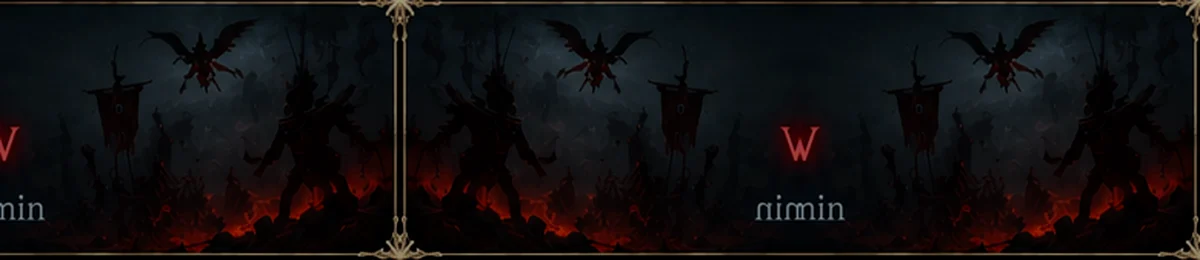
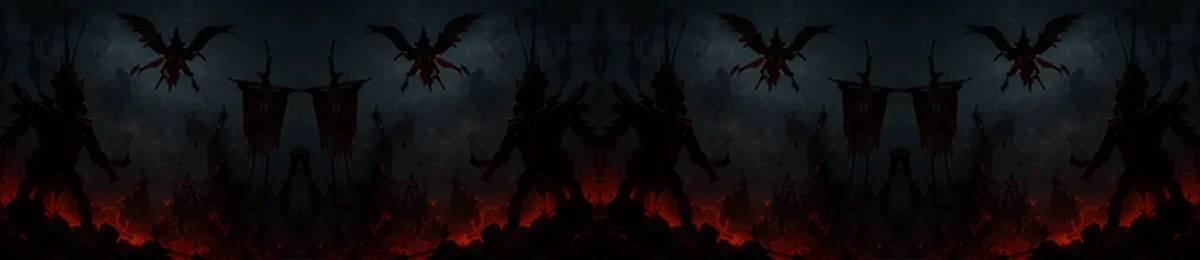
Add files via upload

diff --git a/index.html b/index.html
@@ -6,7 +6,7 @@ header{display:grid;grid-template-columns:360px 1fr 62px;gap:22px;align-items:ce
 .frame{position:relative;border:1px solid var(--line);background:#101113}.frame:before,.frame:after{content:'◆';position:absolute;color:#aa8a55;font-size:13px;top:-8px}.frame:before{left:-7px}.frame:after{right:-7px}.boss{height:245px;display:flex;flex-direction:column;justify-content:center;align-items:center;text-align:center;background-repeat:no-repeat!important;background-position:center center!important;background-size:cover!important;overflow:hidden;isolation:isolate;background-color:#0b0b0c}.boss:before{content:'';position:absolute;inset:0;z-index:-2;background:linear-gradient(90deg,rgba(5,5,6,.10) 0%,rgba(5,5,6,.18) 35%,rgba(5,5,6,.42) 62%,rgba(5,5,6,.88) 88%,#050506 100%)}.boss:after{content:'';position:absolute;inset:0;z-index:-1;background:linear-gradient(180deg,rgba(0,0,0,.22),rgba(45,5,2,.18) 55%,rgba(0,0,0,.38))}.eyebrow,.event h3,.realm .name,.season-title,.alerts-title{font-family:Exocet;letter-spacing:5px}.eyebrow{font-size:22px}.count{font-family:Exocet;font-size:68px;line-height:1;margin:14px 0 8px;text-shadow:0 0 10px #7a210f}.meta{font-family:Formal,Arial,sans-serif;font-size:21px;text-shadow:0 2px 3px #000}.grid2{display:grid;grid-template-columns:1fr 1fr;gap:18px;margin-top:18px}.event{height:158px;padding:26px 36px;display:flex;flex-direction:column;align-items:center;justify-content:center;background-color:#0d0e10;background-position:center;background-size:cover;background-repeat:no-repeat;position:relative;overflow:hidden}.event:before{content:'';position:absolute;inset:0;background:rgba(5,5,6,.42);z-index:0}.event>*{position:relative;z-index:1}.grid2 .event:first-child{background-image:url('./assets/helltide.webp')}.grid2 .event:last-child{background-image:url('./assets/legion.webp')}.event h3{font-size:22px;margin:0 0 16px}.event strong{font-family:Exocet;font-size:28px;color:#ff5a51}.event small{font-size:19px;color:#aeb3bd;margin-top:8px}.realm{height:82px;margin-top:18px;display:grid;grid-template-columns:1fr auto 1fr;align-items:center;padding:0 38px;background:linear-gradient(rgba(8,9,10,.58),rgba(8,9,10,.58)),url('./assets/realmwalker.webp') center/cover no-repeat}.realm .name{font-size:22px}.realm strong{font-family:Exocet;color:#ff5a51;font-size:25px}.realm small{text-align:right;font-size:18px;color:#adb0b6}
 .bottom{display:grid;grid-template-columns:1.18fr .88fr;gap:18px;margin-top:18px}.season-panel{height:240px;padding:20px 24px;overflow:hidden;isolation:isolate}.season-panel:before{content:'';position:absolute;inset:0;z-index:-2;background:url('./assets/season15.webp') center center/cover no-repeat;opacity:1}.season-panel:after{content:'';position:absolute;inset:0;z-index:-1;background:linear-gradient(90deg,rgba(4,4,5,.93) 0%,rgba(5,5,6,.80) 30%,rgba(5,5,6,.26) 55%,rgba(0,0,0,.08) 100%),linear-gradient(180deg,rgba(0,0,0,.12),rgba(0,0,0,.32))}.season-title{font-size:20px;text-shadow:0 2px 4px #000}.season-clock{display:grid;grid-template-columns:repeat(4,1fr);width:49%;margin-top:32px}.unit{text-align:center;border-right:1px solid #6e5839}.unit:last-child{border:0}.num{font-family:Exocet;font-size:52px}.lab{font-family:Exocet;font-size:12px;letter-spacing:2px;color:#d8c39d;margin-top:10px}.season-name{display:none}.alerts-summary{height:240px;padding:20px 26px;background:#0b0c0d}.alerts-head{display:flex;justify-content:space-between;align-items:center;border-bottom:1px solid #2e2923;padding-bottom:12px}.alerts-title{font-size:18px}.alert-row{display:grid;grid-template-columns:18px 1fr auto;gap:12px;align-items:start;padding:10px 0;border-bottom:1px solid #242424}.dot{width:11px;height:11px;border-radius:50%;background:#f33;margin-top:6px;box-shadow:0 0 8px #f22}.alert-row b{font-size:17px;font-weight:400}.alert-row small{display:block;color:#9299a5;font-size:14px}.alert-row time{color:#9299a5}.footer{border-top:1px solid #4d3b27;margin-top:22px;padding:18px 4px 0;display:flex;justify-content:space-between;color:#8e877e;font-style:italic}.page{display:none}.page.active{display:block}.other{padding:28px}.post{padding:20px;margin-bottom:12px}.post h2{font-family:Exocet;color:#e8d2a8}.post a{color:#e34b42}.modal{position:fixed;inset:0;background:#000b;display:none;place-items:center;z-index:10}.modal.open{display:grid}.alerts-box{width:350px;background:#171719;border:1px solid #6c5a3d;padding:15px;position:relative}.close{position:absolute;right:12px;top:8px;border:0;background:none;color:#aaa;font-size:22px}.alerts-box h2{font-family:Exocet;letter-spacing:2px;font-size:18px}.master{width:100%;padding:12px;border:1px solid #d22;background:#2b0806;color:#ead5b8;font-family:Exocet;font-size:15px}.opts{display:grid;grid-template-columns:1fr 1fr;gap:7px;margin:12px 0}.opt{display:flex;justify-content:space-between;border:1px solid #2e2e2e;padding:8px;color:#aaa}.wins{display:flex;gap:6px;flex-wrap:wrap}.wins button{border:1px solid #c9843c;background:#20130c;color:#fff;padding:6px;font-size:11px}.wins button.active{background:#7d180f}@media(max-width:900px){header{grid-template-columns:1fr 55px}.brandwrap{grid-column:1/-1}.nav{grid-template-columns:1fr 1fr}.bottom,.grid2{grid-template-columns:1fr}.season-panel,.alerts-summary{height:auto;min-height:230px}.season-clock{width:100%}.season-name{display:none}.boss{height:210px}.count{font-size:48px}.realm{grid-template-columns:1fr;gap:6px;height:auto;padding:20px}.realm small{text-align:left}}
 </style></head><body><main class="app"><header><div class="brandwrap"><div class="brand">DIABLO <b>IV</b></div><div class="subbrand">SANCTUARY VN TRACKER</div></div><nav class="nav"><button class="active" data-page="sanctum">♟ SANCTUM</button><button data-page="updates">▣ THÔNG TIN UPDATE</button><button data-page="events">⚔ EVENTS</button><button data-page="season">♜ SEASON</button></nav><button class="bell" id="bell">🔔</button></header>
-<section class="page active" id="sanctum"><div class="frame boss" id="bossPanel"><div class="eyebrow">WORLD BOSS</div><div class="count" id="bossCd">--:--:--</div><div class="meta"><span id="bossName">--</span> · <span id="bossMeta">Đang tải…</span></div></div><div class="grid2"><div class="frame event"><h3>♙ HELLTIDE</h3><strong id="hellState">HELLTIDE RAGES</strong><small id="hellMeta">--</small></div><div class="frame event"><h3>◉ LEGION</h3><strong id="legionState">Gathering NOW</strong><small id="legionMeta">--</small></div></div><div class="frame realm"><div class="name">◉ REALMWALKER</div><strong id="realmState">WALKER RISEN</strong><small id="realmMeta">Chu kỳ 2 giờ</small></div><div class="bottom"><div class="frame season-panel"><div class="season-title">⌛ SEASON 15 COUNTDOWN</div><div class="season-clock"><div class="unit"><div class="num" id="sd">--</div><div class="lab">DAYS</div></div><div class="unit"><div class="num" id="sh">--</div><div class="lab">HOURS</div></div><div class="unit"><div class="num" id="sm">--</div><div class="lab">MINUTES</div></div><div class="unit"><div class="num" id="ss">--</div><div class="lab">SECONDS</div></div></div><div class="season-name">SEASON 15<span>SEASON OF HELL'S LEGACY</span></div></div><div class="frame alerts-summary"><div class="alerts-head"><div class="alerts-title">🔔 SANCTUARY ALERTS</div><span>Xem tất cả →</span></div><div id="alertRows"></div></div></div></section>
+<section class="page active" id="sanctum"><div class="frame boss" id="bossPanel"><div class="eyebrow">WORLD BOSS</div><div class="count" id="bossCd">--:--:--</div><div class="meta"><span id="bossName">--</span> · <span id="bossMeta">Đang tải…</span></div></div><div class="grid2"><div class="frame event"><h3>♙ HELLTIDE</h3><strong id="hellState">HELLTIDE RAGES</strong><small id="hellMeta">--</small></div><div class="frame event"><h3>◉ LEGION</h3><strong id="legionState">Gathering NOW</strong><small id="legionMeta">--</small></div></div><div class="bottom"><div class="frame season-panel"><div class="season-title">⌛ SEASON 15 COUNTDOWN</div><div class="season-clock"><div class="unit"><div class="num" id="sd">--</div><div class="lab">DAYS</div></div><div class="unit"><div class="num" id="sh">--</div><div class="lab">HOURS</div></div><div class="unit"><div class="num" id="sm">--</div><div class="lab">MINUTES</div></div><div class="unit"><div class="num" id="ss">--</div><div class="lab">SECONDS</div></div></div><div class="season-name">SEASON 15<span>SEASON OF HELL'S LEGACY</span></div></div><div class="frame alerts-summary"><div class="alerts-head"><div class="alerts-title">🔔 SANCTUARY ALERTS</div><span>Xem tất cả →</span></div><div id="alertRows"></div></div></div></section>
 <section class="page" id="updates"><div class="frame other"><h1>THÔNG TIN UPDATE</h1><div id="posts"></div></div></section><section class="page" id="events"><div class="frame other"><h1>EVENTS</h1><p>Lịch sự kiện sử dụng giờ Việt Nam UTC+7.</p></div></section><section class="page" id="season"><div class="frame other"><h1>SEASON 15</h1><p>Season of Hell's Legacy</p></div></section><footer class="footer"><span>Diablo IV · Sanctuary VN Tracker</span><span>By the players, for the Sanctuary.</span><span>Stay a while, and listen…</span></footer></main>
 <div class="modal" id="modal"><div class="alerts-box"><button class="close" id="close">×</button><h2>THÔNG BÁO SANCTUARY</h2><p id="notifStatus">THÔNG BÁO: ĐANG TẮT</p><button class="master" id="master">🔔 BẬT THÔNG BÁO</button><h4>THÔNG BÁO CHO TÔI VỀ</h4><div class="opts" id="opts"></div><h4>KHUNG GIỜ NHẬN THÔNG BÁO</h4><div class="wins"><button data-w="afternoon">14:00–19:00</button><button data-w="evening">16:00–21:00</button><button data-w="late">18:00–23:00</button></div></div></div>
 <script>
@@ -15,10 +15,10 @@ const bossImgs={ashava:'ashava.webp',avarice:'avarice.webp','wandering death':'w
 function fmt(t){return new Intl.DateTimeFormat('vi-VN',{timeZone:TZ,hour:'2-digit',minute:'2-digit',weekday:'short',day:'2-digit',month:'2-digit'}).format(new Date(t)).replace('Th ','Thứ ')}function cd(ms){if(ms<0)ms=0;let s=Math.floor(ms/1000),h=Math.floor(s/3600);s%=3600;let m=Math.floor(s/60);s%=60;return [h,m,s].map(x=>String(x).padStart(2,'0')).join(':')}
 function nextBoss(){let n=Date.now(),a=DATA.world_boss||[];return a.find(x=>new Date(x.time)>n)||a[0]}
 function render(){let b=nextBoss();if(b){let ms=new Date(b.time)-Date.now();$('#bossCd').textContent=cd(ms);$('#bossName').textContent=b.name;$('#bossMeta').textContent=`${b.location||'Sanctuary'} · ${fmt(b.time)}`;let k=(b.name||'').toLowerCase();let f=Object.entries(bossImgs).find(([x])=>k.includes(x))?.[1];if(f)$('#bossPanel').style.backgroundImage=`url('./assets/bosses/${f}')`}
-let now=Date.now(),minute=Math.floor(now/60000);let hell=3600-(Math.floor(now/1000)%3600);$('#hellMeta').textContent=`Kết thúc sau ${cd(hell*1000)}`;let leg=25-(minute%25);$('#legionState').textContent=leg<=1?'Gathering NOW':`Gathering in ${String(leg).padStart(2,'0')}:00`;$('#legionMeta').textContent='Chu kỳ hiển thị 25 phút';let rw=120-(minute%120);$('#realmState').textContent=rw<=1?'WALKER RISEN':`Rises in ${Math.floor(rw/60)}:${String(rw%60).padStart(2,'0')}:00`;
+let now=Date.now(),minute=Math.floor(now/60000);let hell=3600-(Math.floor(now/1000)%3600);$('#hellMeta').textContent=`Kết thúc sau ${cd(hell*1000)}`;let leg=25-(minute%25);$('#legionState').textContent=leg<=1?'Gathering NOW':`Gathering in ${String(leg).padStart(2,'0')}:00`;$('#legionMeta').textContent='Chu kỳ hiển thị 25 phút';
 let end=new Date('2026-12-02T00:00:00+07:00')-Date.now(),s=Math.max(0,Math.floor(end/1000));$('#sd').textContent=Math.floor(s/86400);s%=86400;$('#sh').textContent=String(Math.floor(s/3600)).padStart(2,'0');s%=3600;$('#sm').textContent=String(Math.floor(s/60)).padStart(2,'0');$('#ss').textContent=String(s%60).padStart(2,'0')}
 function alerts(){let b=nextBoss(),rows=[];if(b)rows.push([`World Boss · ${b.name}`,`Xuất hiện tại ${b.location||'Sanctuary'} lúc ${fmt(b.time)}`]);rows.push(['Helltide đang diễn ra','Theo dõi bộ đếm Helltide'],['Legion','Chu kỳ sự kiện mỗi 25 phút']);$('#alertRows').innerHTML=rows.map((r,i)=>`<div class="alert-row"><i class="dot"></i><div><b>${r[0]}</b><small>${r[1]}</small></div><time>${new Date().toLocaleTimeString('vi-VN',{hour:'2-digit',minute:'2-digit'})}</time></div>`).join('')}
 async function load(){try{DATA=await fetch('./data/events.json?'+Date.now()).then(r=>r.json())}catch{}try{NEWS=await fetch('./data/news.json?'+Date.now()).then(r=>r.json())}catch{}$('#posts').innerHTML=(NEWS||[]).map(p=>`<article class="post"><small>${p.source||''}</small><h2>${p.title}</h2><p>${p.summary||''}</p><a href="${p.url}" target="_blank">ĐỌC BÀI GỐC →</a></article>`).join('');render();alerts()}
 $$('.nav button').forEach(b=>b.onclick=()=>{$$('.nav button').forEach(x=>x.classList.remove('active'));b.classList.add('active');$$('.page').forEach(x=>x.classList.remove('active'));$('#'+b.dataset.page).classList.add('active')});
-let prefs=JSON.parse(localStorage.getItem('d4alerts')||'{"on":false,"events":["boss","helltide","legion","realmwalker"],"wins":["evening"]}');const labels={boss:'WORLD BOSS',realmwalker:'REALMWALKER',helltide:'HELLTIDE',legion:'LEGION',season:'MÙA GIẢI',news:'TIN BLIZZARD'};function drawPrefs(){$('#opts').innerHTML=Object.entries(labels).map(([k,v])=>`<label class="opt">${v}<input type="checkbox" data-o="${k}" ${prefs.events.includes(k)?'checked':''}></label>`).join('');$$('[data-o]').forEach(x=>x.onchange=()=>{prefs.events=x.checked?[...new Set([...prefs.events,x.dataset.o])]:prefs.events.filter(y=>y!==x.dataset.o);save()});$$('[data-w]').forEach(x=>x.classList.toggle('active',prefs.wins.includes(x.dataset.w)));$('#notifStatus').textContent=`THÔNG BÁO: ${prefs.on?'ĐANG BẬT':'ĐANG TẮT'}`;$('#master').textContent=prefs.on?'🔕 TẮT THÔNG BÁO':'🔔 BẬT THÔNG BÁO';$('#bell').classList.toggle('on',prefs.on)}function save(){localStorage.setItem('d4alerts',JSON.stringify(prefs));drawPrefs()}$('#bell').onclick=()=>$('#modal').classList.add('open');$('#close').onclick=()=>$('#modal').classList.remove('open');$('#master').onclick=async()=>{if(!prefs.on&&'Notification'in window)await Notification.requestPermission();prefs.on=!prefs.on;save()};$$('[data-w]').forEach(x=>x.onclick=()=>{prefs.wins=prefs.wins.includes(x.dataset.w)?prefs.wins.filter(y=>y!==x.dataset.w):[...prefs.wins,x.dataset.w];save()});drawPrefs();load();setInterval(render,1000);setInterval(alerts,60000);
+let prefs=JSON.parse(localStorage.getItem('d4alerts')||'{"on":false,"events":["boss","helltide","legion"],"wins":["evening"]}');const labels={boss:'WORLD BOSS',helltide:'HELLTIDE',legion:'LEGION',season:'MÙA GIẢI',news:'TIN BLIZZARD'};function drawPrefs(){$('#opts').innerHTML=Object.entries(labels).map(([k,v])=>`<label class="opt">${v}<input type="checkbox" data-o="${k}" ${prefs.events.includes(k)?'checked':''}></label>`).join('');$$('[data-o]').forEach(x=>x.onchange=()=>{prefs.events=x.checked?[...new Set([...prefs.events,x.dataset.o])]:prefs.events.filter(y=>y!==x.dataset.o);save()});$$('[data-w]').forEach(x=>x.classList.toggle('active',prefs.wins.includes(x.dataset.w)));$('#notifStatus').textContent=`THÔNG BÁO: ${prefs.on?'ĐANG BẬT':'ĐANG TẮT'}`;$('#master').textContent=prefs.on?'🔕 TẮT THÔNG BÁO':'🔔 BẬT THÔNG BÁO';$('#bell').classList.toggle('on',prefs.on)}function save(){localStorage.setItem('d4alerts',JSON.stringify(prefs));drawPrefs()}$('#bell').onclick=()=>$('#modal').classList.add('open');$('#close').onclick=()=>$('#modal').classList.remove('open');$('#master').onclick=async()=>{if(!prefs.on&&'Notification'in window)await Notification.requestPermission();prefs.on=!prefs.on;save()};$$('[data-w]').forEach(x=>x.onclick=()=>{prefs.wins=prefs.wins.includes(x.dataset.w)?prefs.wins.filter(y=>y!==x.dataset.w):[...prefs.wins,x.dataset.w];save()});drawPrefs();load();setInterval(render,1000);setInterval(alerts,60000);
 </script></body></html>

diff --git a/README.md b/README.md
@@ -7,3 +7,9 @@ Changes:
 - Kept Helltide background continuous inside the outer frame.
 - Strengthened the red glow on the active SANCTUM navigation button.
 - Retains boss fade backgrounds, Legion/Realmwalker artwork, Season 15 artwork, alerts and updater workflow.
+
+
+## v10
+- Removed Realmwalker strip and Realmwalker alert option.
+- Cleaned Legion background divider artifact.
+- Corrected the 17/09 17:00 VN world boss entry to Ashava / Scosglen.
